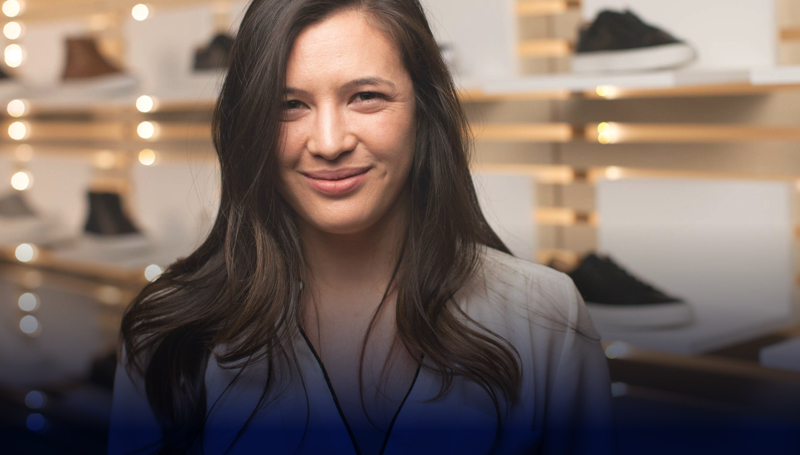
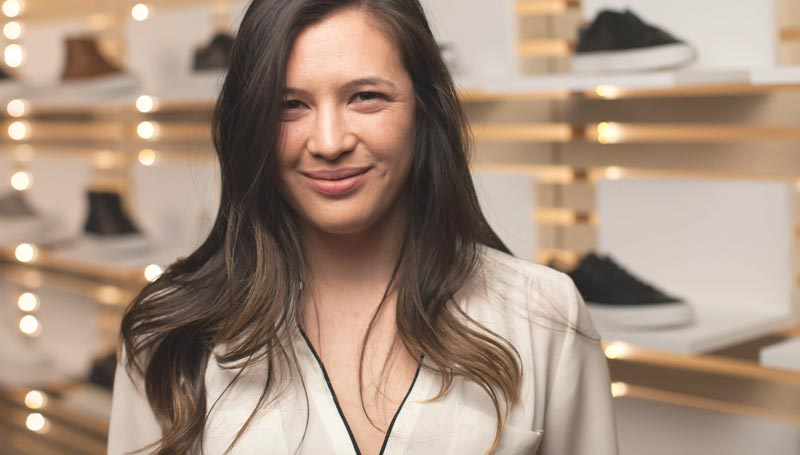
new updates

diff --git a/Yotpo/app/css/main.min.css b/Yotpo/app/css/main.min.css
@@ -1,1 +1,1 @@
-@font-face{font-family:OpenSans;font-weight:400;font-style:normal;src:url(../fonts/OpenSans-Regular.eot);src:url(../fonts/OpenSans-Regular.eot?#iefix) format("embedded-opentype"),url(../fonts/OpenSans-Regular.woff) format("woff"),url(../fonts/OpenSans-Regular.ttf) format("truetype")}@font-face{font-family:OpenSans;font-weight:700;font-style:normal;src:url(../fonts/OpenSans-Bold.eot);src:url(../fonts/OpenSans-Bold.eot?#iefix) format("embedded-opentype"),url(../fonts/OpenSans-Bold.woff) format("woff"),url(../fonts/OpenSans-Bold.ttf) format("truetype")}@font-face{font-family:WorkSans;font-weight:400;font-style:normal;src:url(../fonts/WorkSans-Regular.eot);src:url(../fonts/WorkSans-Regular.eot?#iefix) format("embedded-opentype"),url(../fonts/WorkSans-Regular.woff) format("woff"),url(../fonts/WorkSans-Regular.ttf) format("truetype")}@font-face{font-family:WorkSans;font-weight:600;font-style:normal;src:url(../fonts/WorkSans-SemiBold.eot);src:url(../fonts/WorkSans-SemiBold.eot?#iefix) format("embedded-opentype"),url(../fonts/WorkSans-SemiBold.woff) format("woff"),url(../fonts/WorkSans-SemiBold.ttf) format("truetype")}@font-face{font-family:WorkSans;font-weight:700;font-style:normal;src:url(../fonts/WorkSans-Bold.eot);src:url(../fonts/WorkSans-Bold.eot?#iefix) format("embedded-opentype"),url(../fonts/WorkSans-Bold.woff) format("woff"),url(../fonts/WorkSans-Bold.ttf) format("truetype")}@font-face{font-family:WorkSans;font-weight:400;font-style:normal;src:url(../fonts/yotpo.eot);src:url(../fonts/yotpo.eot?#iefix) format("embedded-opentype"),url(../fonts/yotpo.woff) format("woff"),url(../fonts/yotpo.ttf) format("truetype")}p{width:100%}::-moz-selection{background-color:#007eb9;color:#fff}::selection{background-color:#007eb9;color:#fff}.container{max-width:1200px;margin:0 auto;padding:0 15px}body{margin:0;position:relative}p{margin:0}h1,h2,h3,h4{margin:0}.title-text,h1{font-family:WorkSans,sans-serif;color:#051146;font-weight:700;line-height:1.1}.main-text{font-family:OpenSans,sans-serif;color:#051146;font-weight:400;line-height:1.56}.main-text-s{font-size:14px}.main-text-m{font-size:16px}.main-text-l{font-size:18px}.section{padding-top:100px;padding-bottom:98px}.s-hero{background-color:#fff;background-image:url(../img/SVG/BG/HEADER.svg);background-position:top right;-webkit-background-size:contain;background-size:contain;background-repeat:no-repeat;position:relative;overflow:hidden}.s-platform{background-color:#fff;background-image:url(../img/SVG/BG/Part2-BG.svg);background-position:top right;-webkit-background-size:100% 100%;background-size:100%;background-repeat:no-repeat;padding-bottom:70px;padding-top:98px}.s-video{position:relative}.s-futures{padding-top:150px;background-color:#fff;background-position:top center;-webkit-background-size:auto auto;background-size:auto;background-repeat:no-repeat;padding-bottom:70px}.headline{position:relative;max-width:540px;padding-top:95px;z-index:10}.headline__top-title{font-size:26px;font-weight:400}.headline__title{max-width:335px;font-size:45px;margin-bottom:16px;margin-top:6px}.headline__sub-title{line-height:1.4}.request-form-placehoder{border:1px #051146 solid;-webkit-border-radius:5px;border-radius:5px;width:100%;height:56px;opacity:.5;margin-top:35px}.partners-logos{position:relative;display:block;max-width:900px;height:auto;margin:0 auto;margin-top:287px;z-index:10}.platform__title{font-size:21px;text-align:center;width:100%;max-width:522px;margin:0 auto;line-height:1.13}.platform__title .title-text{margin-bottom:12px}.boxes{padding-top:53px;display:-webkit-flex;display:-moz-flex;display:-ms-flex;display:-o-flex;display:-webkit-box;display:-ms-flexbox;display:flex;-webkit-justify-content:space-around;-ms-flex-pack:distribute;justify-content:space-around;margin:0 auto;margin-bottom:152px;width:100%;max-width:1090px}.boxes__item{-webkit-box-sizing:border-box;box-sizing:border-box;display:-webkit-flex;display:-moz-flex;display:-ms-flex;display:-o-flex;display:-webkit-box;display:-ms-flexbox;display:flex;-webkit-box-orient:vertical;-webkit-box-direction:normal;-webkit-flex-direction:column;-ms-flex-direction:column;flex-direction:column;-webkit-box-pack:start;-webkit-justify-content:flex-start;-ms-flex-pack:start;justify-content:flex-start;-webkit-box-align:center;-webkit-align-items:center;-ms-flex-align:center;align-items:center;padding:33px 45px 43px 45px;background-color:#fff;-webkit-box-shadow:0 0 25px 0 rgba(0,0,0,.1);box-shadow:0 0 25px 0 rgba(0,0,0,.1);-webkit-transition:all .3s ease;-o-transition:all .3s ease;transition:all .3s ease;margin:0 10px;width:100%;max-width:300px}.boxes__item:hover{-webkit-box-shadow:0 0 25px 0 rgba(0,0,0,.3);box-shadow:0 0 25px 0 rgba(0,0,0,.3);-webkit-transition:all .3s ease;-o-transition:all .3s ease;transition:all .3s ease}.boxes__icon{padding-bottom:16px}.boxes__icon-l{padding-bottom:18px;padding-top:5px}.boxes__icon-m{padding-bottom:18px;padding-top:2px}.boxes__icon-r{padding-bottom:13px}.boxes__title{font-size:18px;text-transform:uppercase;text-align:center}.boxes__text{text-align:center;line-height:22px}.boxes__image{max-width:205px;width:100%;height:auto;margin-top:32px;margin-bottom:34px;-webkit-box-shadow:0 0 9px 0 rgba(0,0,0,.15);box-shadow:0 0 9px 0 rgba(0,0,0,.15)}.boxes__btn{font-weight:700;color:#2d76ec;text-decoration:none;padding-top:28px}.boxes__btn:hover{text-decoration:underline}.promotion{font-family:WorkSans,sans-serif;text-align:center;text-transform:uppercase;color:#7288b8;font-size:18px;font-weight:400;line-height:1.57}.slick-slide{width:100%;max-width:800px}.video-nav-btn{position:absolute;cursor:pointer;top:-webkit-calc(50% - 43px);top:calc(50% - 43px);z-index:10}.video-nav-btn.prev{display:block;width:55px;height:55px;left:23.5%;right:auto;-webkit-transform:rotate(0);-ms-transform:rotate(0);transform:rotate(0)}.video-nav-btn.next{display:block;width:55px;height:55px;right:23.5%;left:auto;-webkit-transform:rotate(180deg);-ms-transform:rotate(180deg);transform:rotate(180deg)}.overlay{position:absolute;right:0;bottom:0;height:40%;left:0;background-image:-webkit-gradient(linear,left top,left bottom,from(rgba(0,0,0,0)),to(#051146));background-image:-webkit-linear-gradient(top,rgba(0,0,0,0),#051146);background-image:-o-linear-gradient(top,rgba(0,0,0,0),#051146);background-image:linear-gradient(to bottom,rgba(0,0,0,0),#051146);z-index:1}.vslider__slide:after{content:'';position:absolute;left:0;right:0;top:0;bottom:0;width:100%;background-color:#051146;opacity:.58;-webkit-transition:opacity .3s ease;-o-transition:opacity .3s ease;transition:opacity .3s ease}.slick-active .vslider__slide:after{opacity:0;-webkit-transition:opacity .3s ease;-o-transition:opacity .3s ease;transition:opacity .3s ease}.vslider__content{opacity:0;z-index:10}.vslider__txt-icon{width:auto;margin-bottom:24px;min-height:27px;z-index:10}.vslider__slide{position:relative;padding:45px 50px;background-position:top left;background-repeat:no-repeat;-webkit-background-size:cover;background-size:cover;-webkit-box-sizing:border-box;box-sizing:border-box}.vslider__slide-1{background-image:url(../img/slide1.jpg)}.vslider__slide-2{background-image:url(../img/slide3.jpg)}.vslider__slide-3{background-image:url(../img/slide2.jpg)}.vslider__text{width:100%;max-width:372px;font-family:OpenSans,sans-serif;font-size:14px;font-weight:400;color:#fff;z-index:10;position:relative;line-height:22px}.vslider__name{list-style-type:none;padding:0;margin:0;padding-top:11px;z-index:10;position:relative}.vslider__name li{display:inline-block;width:auto}.vslider__more-btn{position:absolute;right:50px;bottom:40px;font-family:OpenSans,sans-serif;font-size:16px;font-weight:400;color:#fff;text-decoration:none;z-index:10}.slick-active .vslider__content{opacity:1;-webkit-transition:opacity 2s ease;-o-transition:opacity 2s ease;transition:opacity 2s ease}.menu-icon{position:absolute;width:18px;height:auto;top:6px;left:-21px}.video_intro_btn{color:#fff;font-size:40px;width:70px;height:70px;-webkit-border-radius:100%;border-radius:100%;display:-webkit-box;display:-ms-flexbox;display:-webkit-flex;display:flex;-ms-grid-row-align:center;-webkit-align-items:center;align-items:center;-webkit-box-align:center;-ms-flex-align:center;-webkit-justify-content:center;justify-content:center;-webkit-box-pack:center;-ms-flex-pack:center;margin:134px auto 33px auto;padding-left:5px;-webkit-transition:.5s;-o-transition:.5s;transition:.5s}.mockups-wrap{position:absolute;top:0;left:0;right:0;width:100%;height:990px;overflow:hidden}.mockups{position:absolute;width:60%;left:750px;top:0;bottom:0;z-index:1}.mockups__item{position:absolute;-webkit-box-shadow:0 0 14px 0 rgba(23,100,168,.12);box-shadow:0 0 14px 0 rgba(23,100,168,.12)}.mockups__item-1{top:95px;right:695px;-webkit-transform:rotate(-25deg);-ms-transform:rotate(-25deg);transform:rotate(-25deg)}.mockups__item-2{top:435px;right:555px;-webkit-transform:rotate(-25deg);-ms-transform:rotate(-25deg);transform:rotate(-25deg)}.mockups__item-3{top:20px;right:310px;-webkit-transform:rotate(-25deg);-ms-transform:rotate(-25deg);transform:rotate(-25deg)}.mockups__item-4{top:475px;right:170px;-webkit-transform:rotate(-25deg);-ms-transform:rotate(-25deg);transform:rotate(-25deg)}.mockups__item-5{width:214px;height:auto;top:630px;right:105px;-webkit-transform:rotate(-25deg);-ms-transform:rotate(-25deg);transform:rotate(-25deg)}.mockups__item-6{width:225px;height:auto;top:110px;right:10px;-webkit-transform:rotate(-25deg);-ms-transform:rotate(-25deg);transform:rotate(-25deg)}.mockups__item-7{height:auto;top:360px;right:-185px;-webkit-transform:rotate(-25deg);-ms-transform:rotate(-25deg);transform:rotate(-25deg)}.s-futures__title{font-size:26px;font-size:45px;padding-bottom:62px;width:100%;max-width:935px;margin:0 auto}.futures{display:-webkit-flex;display:-moz-flex;display:-ms-flex;display:-o-flex;display:-webkit-box;display:-ms-flexbox;display:flex;-webkit-flex-wrap:wrap;-ms-flex-wrap:wrap;flex-wrap:wrap;-webkit-box-pack:justify;-webkit-justify-content:space-between;-ms-flex-pack:justify;justify-content:space-between;width:100%;max-width:658px;margin-bottom:134px;margin-right:0;margin-left:auto;position:relative}.futures__bg{height:100%;width:auto;position:absolute;left:-585px}.futures__item{width:100%;min-width:270px;max-width:300px;margin-bottom:95px}.futures__item.row2{margin-bottom:0}.futures__icon{height:40px;display:-webkit-flex;display:-moz-flex;display:-ms-flex;display:-o-flex;display:-webkit-box;display:-ms-flexbox;display:flex}.futures__top-title{font-family:OpenSans,sans-serif;font-size:14px;font-weight:400;color:#6b8ba7;line-height:33px;text-transform:uppercase}.futures__title{font-size:31px;font-weight:600;padding-bottom:19px;padding-top:3px;line-height:30px;color:#051f61}.futures__text{line-height:25px;font-size:15.5px;color:#051f61}.brands{display:block;width:100%;max-width:1024px;margin:0 auto;margin-top:70px;margin-bottom:40px}.brands-s{display:block!important}.see-all{display:block;width:200px;margin:0 auto;font-family:OpenSans,sans-serif;font-size:16px;font-weight:700;line-height:1.69;color:#1576ec;text-decoration:none;text-align:center}.see-all:hover{text-decoration:underline}@media only screen and (max-width:1460px){.futures{margin-bottom:95px}.mockups{left:800px}}@media only screen and (max-width:1040px){.s-hero{padding-top:160px;padding-bottom:87px}.s-platform{padding-top:120px}.headline{max-width:535px;margin-left:5.1%;padding-top:26px}.partners-logos{margin-top:142px}.boxes{margin-bottom:130px}.s-futures{background-image:url(../img/png/Image-Beniffits/1024-320@2x.png);-webkit-background-size:1024px 1024px;background-size:1024px;background-position:top center;padding-top:155px}.s-futures__title{text-align:center}.futures{margin-right:auto;margin-left:auto;margin-bottom:120px}.futures__bg{display:none}.brands{margin-top:50px;margin-bottom:47px;max-width:650px}.brands-s{display:none!important}.brands-m{display:block!important}.mockups{top:-105px;left:790px;-webkit-transform:scale(.78);-ms-transform:scale(.78);transform:scale(.78)}}@media only screen and (max-width:1020px){.slick-slide{max-width:100vw}.vslider__more-btn{position:relative;right:auto;left:20px;bottom:0}.vslider__name{margin-bottom:27px}.video-nav-btn.prev{width:43px;height:43px;left:auto;top:auto;right:117px;bottom:50px}.video-nav-btn.next{width:43px;height:43px;top:auto;right:50px;bottom:50px}.mockups{top:-200px;left:680px;-webkit-transform:scale(.7);-ms-transform:scale(.7);transform:scale(.7)}}@media only screen and (max-width:992px){.mockups{top:-115px;left:699px;-webkit-transform:scale(.715);-ms-transform:scale(.715);transform:scale(.715)}.s-hero{padding-top:142px;padding-bottom:80px}.headline{max-width:334px;margin-left:4.7%}.partners-logos-s{display:none!important}.partners-logos-m{display:block!important;max-width:700px;margin-top:75px}.partners-logos-l{display:none!important}.request-form-placehoder{height:116px}.s-platform{padding-top:82px;padding-bottom:43px}.platform__title .title-text{margin-bottom:14px}.boxes{padding-top:60px;margin-bottom:110px}.boxes__item{padding-right:22px;padding-left:21px}.boxes__btn{padding-top:20px}.s-platform .promotion{max-width:385px;margin:0 auto}.video_intro_btn{margin-bottom:-12px}.vslider__slide{padding:45px 35px;padding-bottom:40px}.video-nav-btn.prev{right:100px;bottom:40px}.video-nav-btn.next{right:40px;bottom:40px}.futures{margin-bottom:108px}.platform__title .title-text{font-size:30px;max-width:370px;margin-right:auto;margin-left:auto}.s-platform{padding-bottom:43px}.brands{margin-top:50px}}@media only screen and (max-width:722px){.container{padding:0 25px}.s-hero{padding-top:100px;padding-bottom:550px}.headline{margin:0 auto;text-align:center}.headline__top-title{font-size:30px;font-weight:600}.headline__title{font-size:30px;margin-top:4px}.headline__sub-title{line-height:26px}.s-platform{-webkit-background-size:cover;background-size:cover;background-position:center;padding-top:130px;padding-bottom:30px}.platform__title .title-text{font-size:22px;max-width:370px;margin-right:auto;margin-left:auto}.boxes{-webkit-box-orient:vertical;-webkit-box-direction:normal;-webkit-flex-direction:column;-ms-flex-direction:column;flex-direction:column;-webkit-box-pack:start;-webkit-justify-content:flex-start;-ms-flex-pack:start;justify-content:flex-start;-webkit-box-align:center;-webkit-align-items:center;-ms-flex-align:center;align-items:center;margin-bottom:80px;padding-top:4px}.boxes__icon-l{padding-bottom:14px}.boxes__icon-m{padding-bottom:14px}.boxes__icon-r{padding-bottom:13px}.boxes__image{margin-bottom:20px}.boxes__item{background:0 0;-webkit-box-shadow:none;box-shadow:none;border-bottom:2px #8dbdd5 solid;padding:48px 0 20px 0}.boxes__item:last-child{border-bottom:none}.boxes__item:hover{-webkit-box-shadow:none;box-shadow:none}.vslider__txt-icon{margin:0 auto;margin-bottom:20px}.vslider__text{text-align:center;margin-bottom:15px}.vslider__name{text-align:center;padding-top:0;margin-bottom:13px}.vslider__more-btn{display:block;width:100px;margin:0 auto;margin-bottom:73px}.video_intro_btn{margin-top:157px;margin-bottom:31px}.video_intro_btn img{width:58px;height:58px}.s-futures{padding-top:140px}.s-futures__title{font-size:24px;padding-bottom:47px}.futures{-webkit-box-orient:vertical;-webkit-box-direction:normal;-webkit-flex-direction:column;-ms-flex-direction:column;flex-direction:column;-webkit-box-pack:center;-webkit-justify-content:center;-ms-flex-pack:center;justify-content:center;-webkit-box-align:center;-webkit-align-items:center;-ms-flex-align:center;align-items:center;text-align:center;margin-bottom:25px}.futures__icon{height:auto}.futures__icon img{margin:0 auto;margin-bottom:19px}.futures__top-title{line-height:1.7}.futures__title{font-size:20px;padding-bottom:5px;line-height:24px}.futures__text{line-height:22px;font-size:14px}.futures__item{max-width:270px;margin-bottom:55px}.futures__item.row2{margin-bottom:55px}.brands{margin-top:35px;max-width:250px;margin-bottom:36px}.brands-s{display:none!important}.brands-m{display:none!important}.brands-l{display:block!important}.partners-logos-l{display:none!important}.partners-logos-m{display:none!important}.partners-logos-s{max-width:271px;display:block!important;margin-top:78px}.headline{margin:0 auto;text-align:center}.headline__top-title{font-size:30px;font-weight:600}.headline__title{font-size:30px}.s-hero{padding-bottom:510px}.mockups-wrap{height:750px;top:650px}.boxes .title-text.boxes__title{font-size:15px}.boxes__text{max-width:230px}.boxes__image{margin-top:20px;max-width:230px}.video-nav-btn.next{left:50px;right:0;margin:0 auto;width:35px;height:35px}.video-nav-btn.prev{left:0;right:50px;margin:0 auto;width:35px;height:35px}.main-text-m{font-size:14px}.main-text-l{font-size:16px}.promotion{font-size:14px}.mockups{position:relative;top:0;left:-80px;right:0;width:100%;height:300px;-webkit-transform:scale(.68);-ms-transform:scale(.68);transform:scale(.68)}.mockups-wrap{height:750px;top:650px}.mockups__item{position:absolute;-webkit-box-shadow:0 0 14px 0 rgba(23,100,168,.12);box-shadow:0 0 14px 0 rgba(23,100,168,.12)}.mockups__item-1{top:-30px;right:60px;-webkit-transform:rotate(-25deg);-ms-transform:rotate(-25deg);transform:rotate(-25deg)}.mockups__item-2{top:490px;right:250px;-webkit-transform:rotate(-25deg);-ms-transform:rotate(-25deg);transform:rotate(-25deg)}.mockups__item-3{top:20px;right:310px;-webkit-transform:rotate(-25deg);-ms-transform:rotate(-25deg);transform:rotate(-25deg)}.mockups__item-4{top:325px;right:-150px;-webkit-transform:rotate(-25deg);-ms-transform:rotate(-25deg);transform:rotate(-25deg)}.mockups__item-5{top:490px;right:-180px}.mockups__item-6{top:-35px;right:-220px}.mockups__item-7{display:none;height:auto}}@media only screen and (max-width:360px){.mockups{left:150px}}@media (-webkit-min-device-pixel-ratio:2),(-o-min-device-pixel-ratio:2/1),(min-resolution:192dpi){.vslider__slide-1{background-image:url(../img/slide1@2x.jpg)}.vslider__slide-2{background-image:url(../img/slide3@2x.jpg)}.vslider__slide-3{background-image:url(../img/slide2@2x.jpg)}}
+@font-face{font-family:OpenSans;font-weight:400;font-style:normal;src:url(../fonts/OpenSans-Regular.eot);src:url(../fonts/OpenSans-Regular.eot?#iefix) format("embedded-opentype"),url(../fonts/OpenSans-Regular.woff) format("woff"),url(../fonts/OpenSans-Regular.ttf) format("truetype")}@font-face{font-family:OpenSans;font-weight:700;font-style:normal;src:url(../fonts/OpenSans-Bold.eot);src:url(../fonts/OpenSans-Bold.eot?#iefix) format("embedded-opentype"),url(../fonts/OpenSans-Bold.woff) format("woff"),url(../fonts/OpenSans-Bold.ttf) format("truetype")}@font-face{font-family:WorkSans;font-weight:400;font-style:normal;src:url(../fonts/WorkSans-Regular.eot);src:url(../fonts/WorkSans-Regular.eot?#iefix) format("embedded-opentype"),url(../fonts/WorkSans-Regular.woff) format("woff"),url(../fonts/WorkSans-Regular.ttf) format("truetype")}@font-face{font-family:WorkSans;font-weight:600;font-style:normal;src:url(../fonts/WorkSans-SemiBold.eot);src:url(../fonts/WorkSans-SemiBold.eot?#iefix) format("embedded-opentype"),url(../fonts/WorkSans-SemiBold.woff) format("woff"),url(../fonts/WorkSans-SemiBold.ttf) format("truetype")}@font-face{font-family:WorkSans;font-weight:700;font-style:normal;src:url(../fonts/WorkSans-Bold.eot);src:url(../fonts/WorkSans-Bold.eot?#iefix) format("embedded-opentype"),url(../fonts/WorkSans-Bold.woff) format("woff"),url(../fonts/WorkSans-Bold.ttf) format("truetype")}@font-face{font-family:WorkSans;font-weight:400;font-style:normal;src:url(../fonts/yotpo.eot);src:url(../fonts/yotpo.eot?#iefix) format("embedded-opentype"),url(../fonts/yotpo.woff) format("woff"),url(../fonts/yotpo.ttf) format("truetype")}*,:after,:before{-webkit-box-sizing:content-box;box-sizing:content-box}p{width:100%}h1,h2,h3,h4{font-family:WorkSans,sans-serif!important}::-moz-selection{background-color:#007eb9;color:#fff}::selection{background-color:#007eb9;color:#fff}.main-wrap{max-width:1200px;margin:0 auto;padding:0 15px}body{margin:0;padding:0;position:relative}p{margin:0}h1,h2,h3,h4{margin:0}.title-text,h1{font-family:WorkSans,sans-serif;color:#051146;font-weight:700;line-height:1.1}.main-text{font-family:OpenSans,sans-serif;color:#051146;font-weight:400;line-height:1.56}.main-text-s{font-size:14px}.main-text-m{font-size:16px}.main-text-l{font-size:18px}.section{padding-top:100px;padding-bottom:98px}.s-hero{background-color:#fff;background-image:url(../img/SVG/BG/HEADER.svg);background-position:top right;-webkit-background-size:contain;background-size:contain;background-repeat:no-repeat;position:relative;overflow:hidden;padding-top:24px}.s-platform{background-color:#fff;background-image:url(../img/SVG/BG/Part2-BG.svg);background-position:top right;-webkit-background-size:100% 100%;background-size:100%;background-repeat:no-repeat;padding-bottom:70px;padding-top:98px}.s-video{position:relative}.s-futures{padding-top:150px;background-color:#fff;background-position:top center;-webkit-background-size:auto auto;background-size:auto;background-repeat:no-repeat;padding-bottom:70px}.headline{position:relative;max-width:540px;padding-top:95px;z-index:10}.headline__top-title{font-size:26px;font-weight:400}.headline__title{max-width:335px;font-size:45px;margin-bottom:16px;margin-top:6px}.headline__sub-title{line-height:1.4}.request-form-placehoder{border:1px #051146 solid;-webkit-border-radius:5px;border-radius:5px;width:100%;height:56px;opacity:.5;margin-top:35px}.partners-logos{position:relative;display:block;max-width:900px;height:auto;margin:0 auto;margin-top:287px;z-index:10}.platform__title{font-size:21px;text-align:center;width:100%;max-width:522px;margin:0 auto;line-height:1.13}.platform__title .title-text{margin-bottom:12px}.boxes{padding-top:53px;display:-webkit-flex;display:-moz-flex;display:-ms-flex;display:-o-flex;display:-webkit-box;display:-ms-flexbox;display:flex;-webkit-justify-content:space-around;-ms-flex-pack:distribute;justify-content:space-around;margin:0 auto;margin-bottom:152px;width:100%;max-width:1090px}.boxes__item{-webkit-box-sizing:border-box;box-sizing:border-box;display:-webkit-flex;display:-moz-flex;display:-ms-flex;display:-o-flex;display:-webkit-box;display:-ms-flexbox;display:flex;-webkit-box-orient:vertical;-webkit-box-direction:normal;-webkit-flex-direction:column;-ms-flex-direction:column;flex-direction:column;-webkit-box-pack:start;-webkit-justify-content:flex-start;-ms-flex-pack:start;justify-content:flex-start;-webkit-box-align:center;-webkit-align-items:center;-ms-flex-align:center;align-items:center;padding:33px 45px 43px 45px;background-color:#fff;-webkit-box-shadow:0 0 25px 0 rgba(0,0,0,.1);box-shadow:0 0 25px 0 rgba(0,0,0,.1);-webkit-transition:all .3s ease;-o-transition:all .3s ease;transition:all .3s ease;margin:0 10px;width:100%;max-width:300px}.boxes__item:hover{-webkit-box-shadow:0 0 25px 0 rgba(0,0,0,.3);box-shadow:0 0 25px 0 rgba(0,0,0,.3);-webkit-transition:all .3s ease;-o-transition:all .3s ease;transition:all .3s ease}.boxes__icon{padding-bottom:16px}.boxes__icon-l{padding-bottom:18px;padding-top:5px}.boxes__icon-m{padding-bottom:18px;padding-top:2px}.boxes__icon-r{padding-bottom:13px}.boxes__title{font-size:18px;text-transform:uppercase;text-align:center}.boxes__text{text-align:center;line-height:22px}.boxes__image{max-width:205px;width:100%;height:auto;margin-top:32px;margin-bottom:34px;-webkit-box-shadow:0 0 9px 0 rgba(0,0,0,.15);box-shadow:0 0 9px 0 rgba(0,0,0,.15)}.boxes__btn{font-family:WorkSans,sans-serif;font-weight:600;color:#2d76ec;text-decoration:none;padding-top:28px}.boxes__btn:hover{text-decoration:underline}.promotion{font-family:WorkSans,sans-serif;text-align:center;text-transform:uppercase;color:#7288b8;font-size:18px;font-weight:400;line-height:1.57}.slick-slide{width:100%;max-width:800px}.video-nav-btn{position:absolute;cursor:pointer;top:-webkit-calc(50% - 43px);top:calc(50% - 43px);z-index:10}.video-nav-btn.prev{display:block;width:55px;height:55px;left:23.5%;right:auto;-webkit-transform:rotate(0);-ms-transform:rotate(0);transform:rotate(0)}.video-nav-btn.next{display:block;width:55px;height:55px;right:23.5%;left:auto;-webkit-transform:rotate(180deg);-ms-transform:rotate(180deg);transform:rotate(180deg)}.overlay{position:absolute;right:0;bottom:0;top:0;left:0;background-image:-webkit-gradient(linear,left top,left bottom,color-stop(15%,rgba(0,0,0,0)),color-stop(75%,#051146));background-image:-webkit-linear-gradient(top,rgba(0,0,0,0) 15%,#051146 75%);background-image:-o-linear-gradient(top,rgba(0,0,0,0) 15%,#051146 75%);background-image:linear-gradient(-180deg,rgba(0,0,0,0) 15%,#051146 75%);z-index:1}.vslider__slide:after{content:'';position:absolute;left:0;right:0;top:0;bottom:0;width:100%;background-color:#051146;opacity:.5;-webkit-transition:opacity .3s ease;-o-transition:opacity .3s ease;transition:opacity .3s ease}.slick-active .vslider__slide:after{opacity:0;-webkit-transition:opacity .3s ease;-o-transition:opacity .3s ease;transition:opacity .3s ease}.vslider__content{opacity:0;z-index:10}.vslider__txt-icon{width:auto;margin-bottom:24px;min-height:27px;z-index:10;position:relative}.vslider__slide{position:relative;padding:45px 50px;background-position:center;background-repeat:no-repeat;-webkit-background-size:cover;background-size:cover;-webkit-box-sizing:border-box;box-sizing:border-box;background-color:#051146}.vslider__slide-1{background-image:url(../img/slide1.jpg)}.vslider__slide-2{background-image:url(../img/slide3.jpg)}.vslider__slide-3{background-image:url(../img/slide2.jpg)}.vslider__text{width:100%;max-width:372px;font-family:OpenSans,sans-serif;font-size:14px;font-weight:400;color:#fff;z-index:10;position:relative;line-height:22px}.vslider__name{list-style-type:none;padding:0;margin:0;padding-top:11px;z-index:10;position:relative}.vslider__name li{display:inline-block;width:auto}.vslider__more-btn{position:absolute;right:50px;bottom:40px;font-family:OpenSans,sans-serif;font-size:16px;font-weight:400;color:#fff;text-decoration:none;z-index:10}.slick-active .vslider__content{opacity:1;-webkit-transition:opacity 2s ease;-o-transition:opacity 2s ease;transition:opacity 2s ease}.menu-icon{position:absolute;width:18px;height:auto;top:6px;left:-21px}.video_intro_btn{color:#fff;font-size:40px;width:70px;height:70px;-webkit-border-radius:100%;border-radius:100%;display:-webkit-box;display:-ms-flexbox;display:-webkit-flex;display:flex;-ms-grid-row-align:center;-webkit-align-items:center;align-items:center;-webkit-box-align:center;-ms-flex-align:center;-webkit-justify-content:center;justify-content:center;-webkit-box-pack:center;-ms-flex-pack:center;margin:134px auto 33px auto;padding-left:5px;-webkit-transition:.5s;-o-transition:.5s;transition:.5s}.mockups-wrap{position:absolute;top:0;left:0;right:0;width:100%;height:990px;overflow:hidden}.mockups{position:absolute;width:60%;left:760px;top:-80px;bottom:0;z-index:1}.mockups__item{position:absolute;-webkit-box-shadow:0 0 14px 0 rgba(23,100,168,.12);box-shadow:0 0 14px 0 rgba(23,100,168,.12)}.mockups__item-1{top:95px;right:695px;-webkit-transform:rotate(-25deg);-ms-transform:rotate(-25deg);transform:rotate(-25deg)}.mockups__item-2{top:435px;right:555px;-webkit-transform:rotate(-25deg);-ms-transform:rotate(-25deg);transform:rotate(-25deg)}.mockups__item-3{top:20px;right:310px;-webkit-transform:rotate(-25deg);-ms-transform:rotate(-25deg);transform:rotate(-25deg)}.mockups__item-4{top:475px;right:170px;-webkit-transform:rotate(-25deg);-ms-transform:rotate(-25deg);transform:rotate(-25deg)}.mockups__item-5{width:214px;height:auto;top:630px;right:105px;-webkit-transform:rotate(-25deg);-ms-transform:rotate(-25deg);transform:rotate(-25deg)}.mockups__item-6{width:225px;height:auto;top:110px;right:10px;-webkit-transform:rotate(-25deg);-ms-transform:rotate(-25deg);transform:rotate(-25deg)}.mockups__item-7{height:auto;top:360px;right:-185px;-webkit-transform:rotate(-25deg);-ms-transform:rotate(-25deg);transform:rotate(-25deg)}.s-futures__title{font-size:26px;font-size:45px;padding-bottom:62px;width:100%;max-width:935px;margin:0 auto}.futures{display:-webkit-flex;display:-moz-flex;display:-ms-flex;display:-o-flex;display:-webkit-box;display:-ms-flexbox;display:flex;-webkit-flex-wrap:wrap;-ms-flex-wrap:wrap;flex-wrap:wrap;-webkit-box-pack:justify;-webkit-justify-content:space-between;-ms-flex-pack:justify;justify-content:space-between;width:100%;max-width:658px;margin-bottom:134px;margin-right:0;margin-left:auto;position:relative}.futures__bg{height:100%;width:auto;position:absolute;left:-585px}.futures__item{width:100%;min-width:270px;max-width:300px;margin-bottom:95px}.futures__item.row2{margin-bottom:0}.futures__icon{height:40px;display:-webkit-flex;display:-moz-flex;display:-ms-flex;display:-o-flex;display:-webkit-box;display:-ms-flexbox;display:flex}.futures__top-title{font-family:OpenSans,sans-serif;font-size:14px;font-weight:400;color:#6b8ba7;line-height:33px;text-transform:uppercase}.futures__title{font-size:31px;font-weight:600;padding-bottom:19px;padding-top:3px;line-height:30px;color:#051f61}.futures__text{line-height:25px;font-size:15.5px;color:#051f61}.brands{display:block;width:100%;max-width:1024px;margin:0 auto;margin-top:70px;margin-bottom:40px}.brands-s{display:block!important}.see-all{display:block;width:200px;margin:0 auto;font-family:WorkSans,sans-serif;font-size:16px;font-weight:400;line-height:1.69;color:#1576ec;text-decoration:none;text-align:center}.see-all:hover{text-decoration:underline}@media only screen and (max-width:1460px){.futures{margin-bottom:95px}.mockups{left:800px}}@media only screen and (max-width:1040px){.s-hero{padding-top:160px;padding-bottom:87px}.s-platform{padding-top:120px}.headline{max-width:535px;margin-left:5.1%;padding-top:26px}.partners-logos{margin-top:142px}.boxes{margin-bottom:130px}.s-futures{background-image:url(../img/png/Image-Beniffits/1024-320@2x.png);-webkit-background-size:1024px 1024px;background-size:1024px;background-position:top center;padding-top:155px}.s-futures__title{text-align:center}.futures{margin-right:auto;margin-left:auto;margin-bottom:120px}.futures__bg{display:none}.brands{margin-top:50px;margin-bottom:47px;max-width:650px}.brands-s{display:none!important}.brands-m{display:block!important}.mockups{top:-105px;left:790px;-webkit-transform:scale(.78);-ms-transform:scale(.78);transform:scale(.78)}}@media only screen and (max-width:1020px){.slick-slide{max-width:100vw}.vslider__more-btn{position:relative;right:auto;left:20px;bottom:0}.vslider__name{margin-bottom:27px}.video-nav-btn.prev{width:43px;height:43px;left:auto;top:auto;right:117px;bottom:50px}.video-nav-btn.next{width:43px;height:43px;top:auto;right:50px;bottom:50px}.mockups{top:-200px;left:680px;-webkit-transform:scale(.7);-ms-transform:scale(.7);transform:scale(.7)}}@media only screen and (max-width:992px){.mockups{top:-115px;left:699px;-webkit-transform:scale(.715);-ms-transform:scale(.715);transform:scale(.715)}.s-hero{padding-top:142px;padding-bottom:80px}.headline{max-width:334px;margin-left:4.7%}.partners-logos-s{display:none!important}.partners-logos-m{display:block!important;max-width:700px;margin-top:75px}.partners-logos-l{display:none!important}.request-form-placehoder{height:116px}.s-platform{padding-top:82px;padding-bottom:43px}.platform__title .title-text{margin-bottom:14px}.boxes{padding-top:60px;margin-bottom:110px}.boxes__item{padding-right:22px;padding-left:21px}.boxes__btn{padding-top:20px}.s-platform .promotion{max-width:385px;margin:0 auto}.video_intro_btn{margin-bottom:-12px}.vslider__slide{padding:45px 35px;padding-bottom:40px}.video-nav-btn.prev{right:100px;bottom:40px}.video-nav-btn.next{right:40px;bottom:40px}.futures{margin-bottom:108px}.platform__title .title-text{font-size:30px;max-width:370px;margin-right:auto;margin-left:auto}.s-platform{padding-bottom:43px}.brands{margin-top:50px}}@media only screen and (max-width:722px){.container{padding:0 25px}.s-hero{padding-top:100px;padding-bottom:550px}.headline{margin:0 auto;text-align:center}.headline__top-title{font-size:30px;font-weight:600}.headline__title{font-size:30px;margin-top:4px}.headline__sub-title{line-height:26px}.s-platform{-webkit-background-size:cover;background-size:cover;background-position:center;padding-top:130px;padding-bottom:30px}.platform__title .title-text{font-size:22px;max-width:370px;margin-right:auto;margin-left:auto}.boxes{-webkit-box-orient:vertical;-webkit-box-direction:normal;-webkit-flex-direction:column;-ms-flex-direction:column;flex-direction:column;-webkit-box-pack:start;-webkit-justify-content:flex-start;-ms-flex-pack:start;justify-content:flex-start;-webkit-box-align:center;-webkit-align-items:center;-ms-flex-align:center;align-items:center;margin-bottom:80px;padding-top:4px}.boxes__icon-l{padding-bottom:14px}.boxes__icon-m{padding-bottom:14px}.boxes__icon-r{padding-bottom:13px}.boxes__image{margin-bottom:20px}.boxes__item{background:0 0;-webkit-box-shadow:none;box-shadow:none;border-bottom:2px #8dbdd5 solid;padding:48px 0 20px 0}.boxes__item:last-child{border-bottom:none}.boxes__item:hover{-webkit-box-shadow:none;box-shadow:none}.vslider__txt-icon{margin:0 auto;margin-bottom:20px}.vslider__text{text-align:center;margin-bottom:15px}.vslider__name{text-align:center;padding-top:0;margin-bottom:13px}.vslider__more-btn{display:block;width:100px;margin:0 auto;margin-bottom:73px}.video_intro_btn{margin-top:157px;margin-bottom:31px}.video_intro_btn img{width:58px;height:58px}.s-futures{padding-top:140px}.s-futures__title{font-size:24px;padding-bottom:47px}.futures{-webkit-box-orient:vertical;-webkit-box-direction:normal;-webkit-flex-direction:column;-ms-flex-direction:column;flex-direction:column;-webkit-box-pack:center;-webkit-justify-content:center;-ms-flex-pack:center;justify-content:center;-webkit-box-align:center;-webkit-align-items:center;-ms-flex-align:center;align-items:center;text-align:center;margin-bottom:25px}.futures__icon{height:auto}.futures__icon img{margin:0 auto;margin-bottom:19px}.futures__top-title{line-height:1.7}.futures__title{font-size:20px;padding-bottom:5px;line-height:24px}.futures__text{line-height:22px;font-size:14px}.futures__item{max-width:270px;margin-bottom:55px}.futures__item.row2{margin-bottom:55px}.brands{margin-top:35px;max-width:250px;margin-bottom:36px}.brands-s{display:none!important}.brands-m{display:none!important}.brands-l{display:block!important}.partners-logos-l{display:none!important}.partners-logos-m{display:none!important}.partners-logos-s{max-width:271px;display:block!important;margin-top:78px}.headline{margin:0 auto;text-align:center}.headline__top-title{font-size:30px;font-weight:600}.headline__title{font-size:30px}.s-hero{padding-bottom:510px}.mockups-wrap{height:750px;top:650px}.boxes .title-text.boxes__title{font-size:15px}.boxes__text{max-width:230px}.boxes__image{margin-top:20px;max-width:230px}.video-nav-btn.next{left:50px;right:0;margin:0 auto;width:35px;height:35px}.video-nav-btn.prev{left:0;right:50px;margin:0 auto;width:35px;height:35px}.main-text-m{font-size:14px}.main-text-l{font-size:16px}.promotion{font-size:14px}.mockups{position:relative;top:0;left:-80px;right:0;width:100%;height:300px;-webkit-transform:scale(.68);-ms-transform:scale(.68);transform:scale(.68)}.mockups-wrap{height:750px;top:650px}.mockups__item{position:absolute;-webkit-box-shadow:0 0 14px 0 rgba(23,100,168,.12);box-shadow:0 0 14px 0 rgba(23,100,168,.12)}.mockups__item-1{top:-30px;right:60px;-webkit-transform:rotate(-25deg);-ms-transform:rotate(-25deg);transform:rotate(-25deg)}.mockups__item-2{top:490px;right:250px;-webkit-transform:rotate(-25deg);-ms-transform:rotate(-25deg);transform:rotate(-25deg)}.mockups__item-3{top:20px;right:310px;-webkit-transform:rotate(-25deg);-ms-transform:rotate(-25deg);transform:rotate(-25deg)}.mockups__item-4{top:325px;right:-150px;-webkit-transform:rotate(-25deg);-ms-transform:rotate(-25deg);transform:rotate(-25deg)}.mockups__item-5{top:490px;right:-180px}.mockups__item-6{top:-35px;right:-220px}.mockups__item-7{display:none;height:auto}}@media only screen and (max-width:360px){.mockups{left:150px}}@media (-webkit-min-device-pixel-ratio:2),(-o-min-device-pixel-ratio:2/1),(min-resolution:192dpi){.vslider__slide-1{background-image:url(../img/slide1@2x.jpg)}.vslider__slide-2{background-image:url(../img/slide3@2x.jpg)}.vslider__slide-3{background-image:url(../img/slide2@2x.jpg)}}

diff --git a/Yotpo/app/index.html b/Yotpo/app/index.html
@@ -21,6 +21,21 @@
 	<!-- Custom Browsers Color Start -->
 	<meta name="theme-color" content="#000">
 	<!-- Custom Browsers Color End -->
+	
+	
+	<link type="text/css" media="screen" href="https://1blpel1g8srf4bxty2g1fegr-wpengine.netdna-ssl.com/wp-content/cache/autoptimize/css/autoptimize_49b728f633c018a57438d1b98033908c.css" rel="stylesheet" />
+
+	<link type="text/css" media=" projection" href="https://1blpel1g8srf4bxty2g1fegr-wpengine.netdna-ssl.com/wp-content/cache/autoptimize/css/autoptimize_2f42c245ef4de548b0c371a48e67baa7.css" rel="stylesheet" />
+
+<!--	<link type="text/css" media="all" href="https://1blpel1g8srf4bxty2g1fegr-wpengine.netdna-ssl.com/wp-content/cache/autoptimize/css/autoptimize_7518646f137ab9b8d20e24c33463dbd6.css" rel="stylesheet" />-->
+
+	<link rel='stylesheet' id='google-fonts-roboto-css' href='//fonts.googleapis.com/css?family=Roboto+Slab%3A400%2C300%2C100%2C700&#038;subset=latin%2Cgreek%2Cvietnamese%2Ccyrillic-ext%2Clatin-ext%2Ccyrillic' type='text/css' media='all' />
+
+	<link rel='stylesheet' id='google-fonts-open-sans-css' href='//fonts.googleapis.com/css?family=Open+Sans%3A200%2C300%2C300italic%2C400italic%2C700italic%2C300%2C400%2C500%2C600%2C700%2C800' type='text/css' media='all' />
+
+	<link rel='stylesheet' id='google-fonts-work-sans-css' href='//fonts.googleapis.com/css?family=Work+Sans%3A300%2C400%2C500%2C600%2C700' type='text/css' media='all' />
+	
+	
 
 	<link rel="stylesheet" href="libs/slick/slick.css">
 	<link rel="stylesheet" href="css/main.min.css">
@@ -32,7 +47,7 @@
 		
 		<div class="s-hero section">
 		
-			<div class="container">
+			<div class="main-wrap">
 				<div class="headline">
 					<p class="title-text headline__top-title">The All in One</p>
 					<h1 class="title-text headline__title">UGC Marketing Platform</h1>
@@ -67,7 +82,7 @@
 		</div>
 		
 		<div class="s-platform section">
-			<div class="container">
+			<div class="main-wrap">
 				<div class="platform">
 					<div class="platform__title">
 						<h2 class="title-text">User-Generated Content Marketing Platform</h2>
@@ -162,11 +177,11 @@
 		
 		<div class="s-futures sections">
 					
-				<div class="container">
+				<div class="main-wrap">
 						<h1 class="title-text s-futures__title">One Place.<br>Everything You Need.</h1>
 				</div>
 				
-				<div class="container">
+				<div class="main-wrap">
 				
 					<div class="futures">
 						

diff --git a/Yotpo/app/scss/main.scss b/Yotpo/app/scss/main.scss
@@ -51,8 +51,18 @@ $gutter: $grid-gutter-width;
 
 /*=========================== MAIN ================================*/
 
+*, *:before, *:after {
+    -webkit-box-sizing: content-box;
+    -moz-box-sizing: content-box;
+    box-sizing: content-box;
+}
+
 p{
 	width: 100%;
+}
+
+h1, h2, h3, h4{
+	font-family: $title-font !important;
 }
 
 ::selection {
@@ -60,7 +70,7 @@ p{
 	color: $white;
 }
 
-.container{
+.main-wrap{
 	max-width: 1200px;
 	margin: 0 auto;
 	padding: 0 15px;
@@ -68,6 +78,7 @@ p{
 
 body{
 	margin: 0;
+	padding: 0;
 	position: relative;
 }
 p{
@@ -108,6 +119,7 @@ h1, .title-text{
 	background-repeat: no-repeat;
 	position: relative;
 	overflow: hidden;
+	padding-top: 24px;
 }
 .s-platform{
 	background-color: #fff;
@@ -240,7 +252,8 @@ h1, .title-text{
 		box-shadow: 0 0 9px 0 rgba(0, 0, 0, 0.15);
 	}
 	&__btn{
-		font-weight: bold;
+		font-family: $title-font;
+		font-weight: 600;
 		color: $btn;
 		text-decoration: none;
 		padding-top: 28px;
@@ -292,9 +305,9 @@ h1, .title-text{
 	position: absolute;
 	right: 0;
 	bottom: 0;
-	height: 40%;
+	top: 0;
 	left: 0;
-	background-image: linear-gradient(to bottom, rgba(0, 0, 0, 0), rgba(5, 17, 70, 1));
+	background-image: linear-gradient(-180deg, rgba(0,0,0,0.00) 15%, #051146 75%);
 	z-index: 1;
 }
 
@@ -308,7 +321,7 @@ h1, .title-text{
 		bottom: 0;
 		width: 100%;
 		background-color: $main-text;
-		opacity: 0.58;
+		opacity: 0.5;
 		transition: opacity 0.3s ease;
 	}
 }
@@ -331,14 +344,16 @@ h1, .title-text{
 		margin-bottom: 24px;
 		min-height: 27px;
 		z-index: 10;
+		position: relative;
 	}
 	&__slide{
 		position: relative;
 		padding: 45px 50px;
-		background-position: top left;
+		background-position: center;
 		background-repeat: no-repeat;
 		background-size: cover;
 		box-sizing: border-box;
+		background-color: $main-text;
 		&-1{
 			background-image:	url(../img/slide1.jpg);
 		}
@@ -434,8 +449,8 @@ h1, .title-text{
 .mockups{
 	position: absolute;
 	width: 60%;
-	left: 750px;
-	top: 0;
+	left: 760px;
+	top: -80px;
 	bottom: 0;
 	z-index: 1;
 	&__item{
@@ -572,9 +587,9 @@ h1, .title-text{
 	display: block;
 	width: 200px;
 	margin: 0 auto;
-	font-family: $main-font;
+	font-family: $title-font;
   font-size: 16px;
-  font-weight: 700;
+  font-weight: 400;
   line-height: 1.69;
   color: #1576ec;
 	text-decoration: none;
